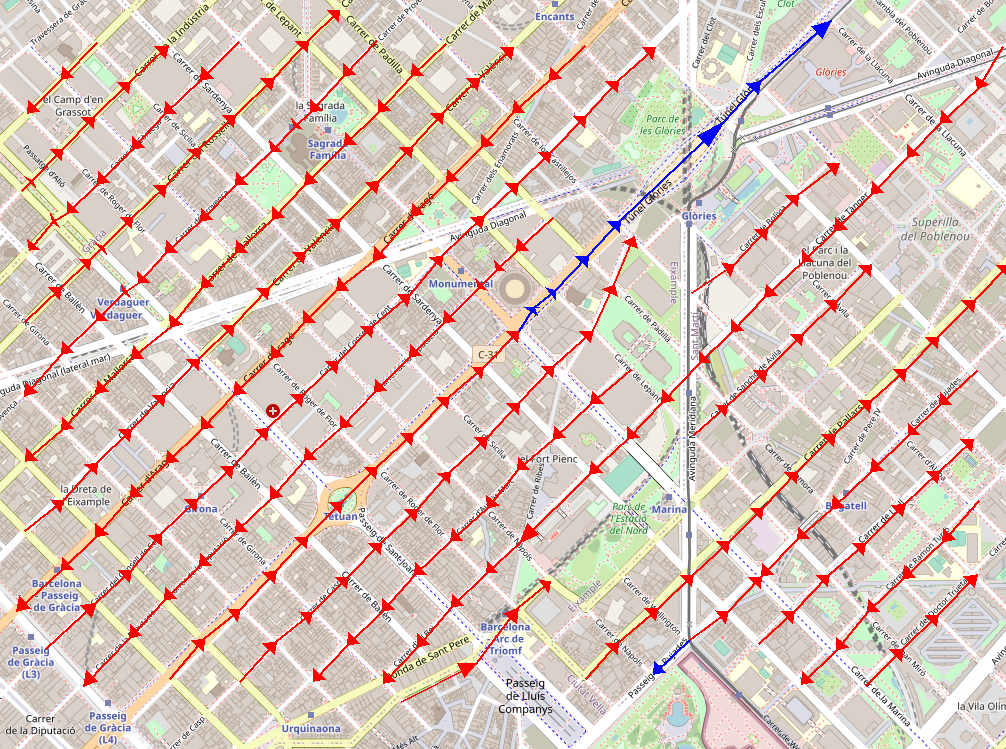
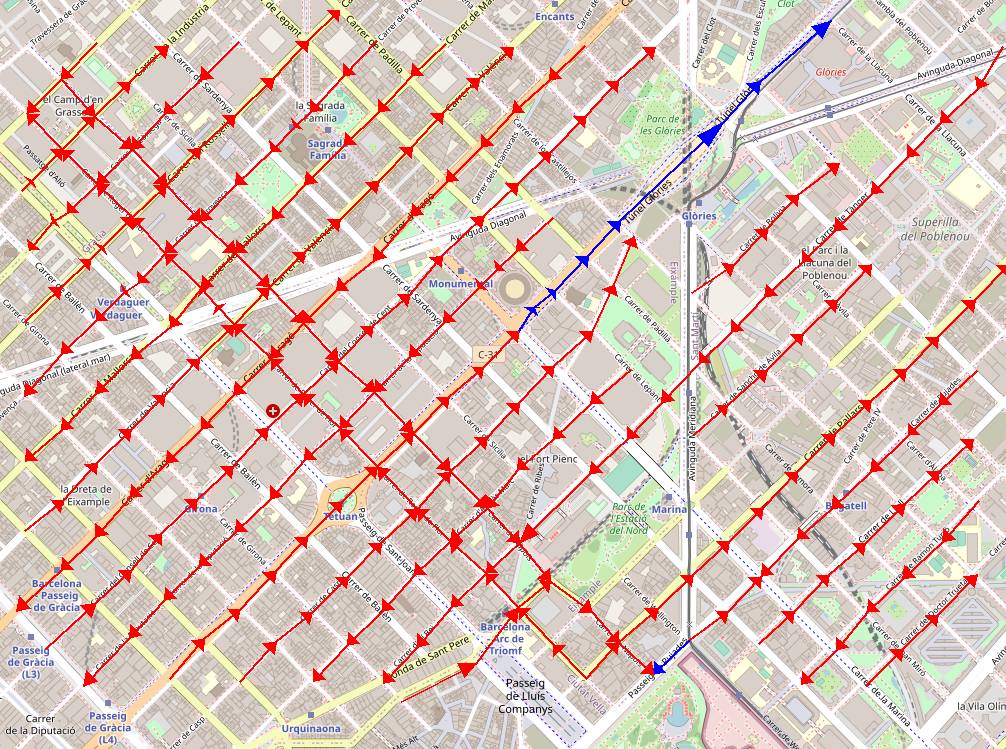
Prova coordenades a temps real
S'ha afegit un arxiu de prova per a intentar implementar coordenades a
temps real.

diff --git a/Programa/CreadorGrafs/map_painterr.py b/Programa/CreadorGrafs/map_painterr.py
@@ -7,15 +7,16 @@ class MapPainter:
         self.image = Image.open(map_path, 'r')
 
         #Al index 0, aquestes son les coordenades del punt superior esquerra de l'imatge
-        self.lat = [41.4051,41.3905]
-        self.lon = [2.1728,2.1962]
+        self.lat = [41.4070,41.3888]
+        self.lon = [2.1636,2.1974]
 
     def set_map(self, map_path):
         self.image = Image.open(map_path, 'r')
 
     def coord_to_img(self, x: float, y:float ) -> tuple[float,float]:
         #https://gamedev.stackexchange.com/questions/33441/how-to-convert-a-number-from-one-min-max-set-to-another-min-max-set/33445
-        x_conv = abs(((x-self.lat[0])/(self.lat[1]-self.lat[0]))*(self.image.size[0]))
+        #x_conv = abs(((x-self.lat[0])/(self.lat[1]-self.lat[0]))*(self.image.size[0]))
+        x_conv = (x-self.lat[1])/(self.lat[0]-self.lat[1])*self.image.size[0]
         y_conv = ((y-self.lon[0])/(self.lon[1]-self.lon[0]))*(self.image.size[1])
 
         return x_conv, y_conv
@@ -24,7 +25,7 @@ class MapPainter:
         #https://gamedev.stackexchange.com/questions/33441/how-to-convert-a-number-from-one-min-max-set-to-another-min-max-set/33445
         #Result := ((Input - InputLow) / (InputHigh - InputLow)) * (OutputHigh - OutputLow) + OutputLow;
         
-        x_conv = abs(((x-0)/(1006-0))*(self.lat[1]-self.lat[0])+self.lat[0])
+        x_conv = ((x-0)/(1006-0))*(self.lat[0]-self.lat[1])+self.lat[1]
         y_conv = ((y-0)/(749-0))*(self.lon[1]-self.lon[0])+self.lon[0]
 
         return x_conv, y_conv

diff --git a/Programa/map_painter.py b/Programa/map_painter.py
@@ -14,7 +14,7 @@ class MapPainter:
 
     def coord_to_img(self, x: float, y:float ) -> tuple[float,float]:
         #https://gamedev.stackexchange.com/questions/33441/how-to-convert-a-number-from-one-min-max-set-to-another-min-max-set/33445
-        x_conv = abs(((x-self.lat[0])/(self.lat[1]-self.lat[0]))*(self.image.size[0]))
+        x_conv = (x-self.lat[1])/(self.lat[0]-self.lat[1])*self.image.size[0]
         y_conv = ((y-self.lon[0])/(self.lon[1]-self.lon[0]))*(self.image.size[1])
 
         return x_conv, y_conv
@@ -23,7 +23,7 @@ class MapPainter:
         #https://gamedev.stackexchange.com/questions/33441/how-to-convert-a-number-from-one-min-max-set-to-another-min-max-set/33445
         #Result := ((Input - InputLow) / (InputHigh - InputLow)) * (OutputHigh - OutputLow) + OutputLow;
         
-        x_conv = abs(((x-0)/(1006-0))*(self.lat[1]-self.lat[0])+self.lat[0])
+        x_conv = ((x-0)/(1006-0))*(self.lat[0]-self.lat[1])+self.lat[1]
         y_conv = ((y-0)/(749-0))*(self.lon[1]-self.lon[0])+self.lon[0]
 
         return x_conv, y_conv

diff --git a/Programa/CreadorGrafs/test.py b/Programa/CreadorGrafs/test.py
@@ -1,0 +1,40 @@
+import geocoder
+from geopy.geocoders import Nominatim
+import geotiler
+
+"""
+loc = Nominatim(user_agent="GetLoc")
+getLoc = loc.geocode("Sagrada Familia")
+y = getLoc.latitude
+x = getLoc.longitude
+
+gc = geocoder.ip('me')
+y,x = gc.latlng
+#"""
+"""
+bbox = 2.1728,41.4051,2.1962,41.3905
+
+#
+# download map using OpenStreetMap
+#
+
+mm = geotiler.Map(extent=bbox, size=(1006, 749))
+img = geotiler.render_map(mm)
+
+#
+# save map image as PNG file
+#
+img.save('ex-geocoder.png')
+"""
+
+Nomi_locator = Nominatim(user_agent="My App")
+
+my_location= geocoder.ip('me')
+
+#my latitude and longitude coordinates
+latitude= my_location.geojson['features'][0]['properties']['lat']
+longitude = my_location.geojson['features'][0]['properties']['lng']
+
+#get the location
+location = Nomi_locator.reverse(f"{latitude}, {longitude}")
+print("Your Current IP location is", location)

diff --git a/Programa/main_window.py b/Programa/main_window.py
@@ -260,6 +260,7 @@ class Ui_MainWindow(object):
         path, w = Dijkstra(self.g, originVertex, goalVertex)
 
         if path:
+            print(path)
             self.map_painter.set_map('assets/map.png')
             self.map_painter.set_route(self.g.route_to_coords(path))
             self.map_painter.paint_map('assets/result_map.png')
@@ -324,9 +325,6 @@ class Ui_MainWindow(object):
             restriction = restr
             print(f"Route {i}: {r}")
 
-#FIXME: Afegir un mode 'simulació'. Et permet moure el punt d'origen com si et moguessis a la vida
-#       real i fa desapareixer linees que ja has recorregut. Una vegada s'afegeixi això, podem intentar implementar
-#       la connexió a Instagram
         if route:
             self.map_painter.set_map('assets/map.png')
             self.map_painter.set_route(self.g.route_to_coords(route))

diff --git a/Programa/core.py b/Programa/core.py
@@ -4,7 +4,7 @@ import numpy as np
 INFINITY = 2.0**50.0
 
 class Graph:
-    def __init__(self, v_data_path="vertexs.csv", e_data_path="arestes.csv"):
+    def __init__(self, v_data_path="vertexs.csv", e_data_path="arestes.csv", mode="img"):
         data = pd.read_csv(v_data_path, names=['LATITUD', 'LONGITUD', 'CATEGORIA'], sep=",", comment="#")
         data['CATEGORIA'] = data['CATEGORIA'].astype('|S')
         vertex_data = tuple(zip(data['LATITUD'].values, data['LONGITUD'].values, data['CATEGORIA'].values))
